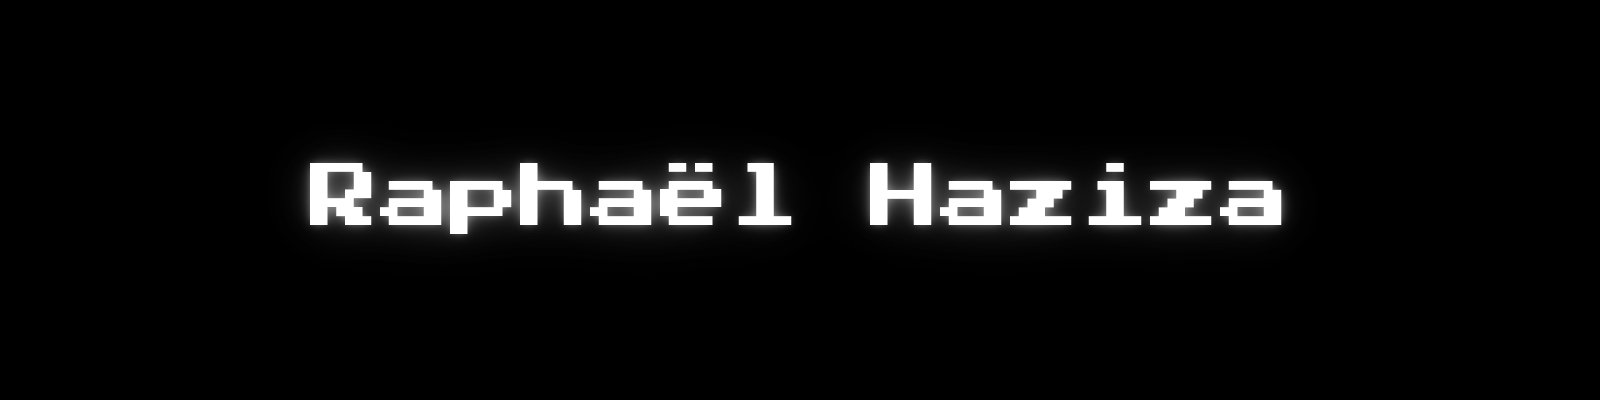
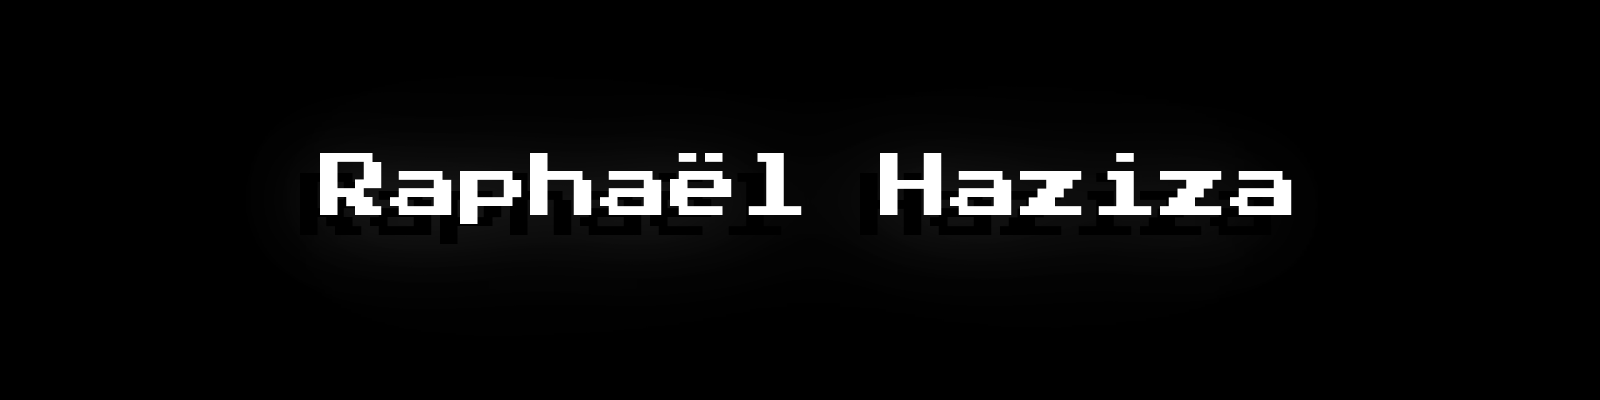
added a better visual configuration

Changed region(s): [[0.1875, 0.36, 0.5, 0.6], [0.5312, 0.39, 0.8125, 0.6]]

diff --git a/src/banner_generator/generator.py b/src/banner_generator/generator.py
@@ -11,22 +11,22 @@ class BannerGenerator:
 
         return blank_image
 
-    def write_text(self, image, color):
+    def write_text(self, image, color, offset=(0,0)):
         config_font = ImageFont.truetype(self.config.font_path, self.config.font_size)
         draw = ImageDraw.Draw(image)
 
         size_tuple = draw.textbbox((0,0), self.config.text, config_font)
 
-        centered_width = (self.config.width - (size_tuple[2] - size_tuple[0])) // 2 # (image_width - (right - left)) // 2 to center it on the horizontal
-        centered_height = (self.config.height - (size_tuple[3] - size_tuple[1])) // 2 # (image_height - (bottom - top)) // 2 to center it on the vertical
+        centered_width = (self.config.width - (size_tuple[2] - size_tuple[0])) // 2 + offset[0] # (image_width - (right - left)) // 2 to center it on the horizontal
+        centered_height = (self.config.height - (size_tuple[3] - size_tuple[1])) // 2 + offset[1] # (image_height - (bottom - top)) // 2 to center it on the vertical
 
         draw.text((centered_width, centered_height), self.config.text, color, config_font)
 
         return image
 
-    def apply_glow(self, image, opacity_glow, glow_size):
+    def apply_glow(self, image, opacity_glow, glow_size, offset=(0,0)):
         glow_image = self.create_image("RGBA", (0, 0, 0, 0))
-        glow_image = self.write_text(glow_image, (255, 255, 255, opacity_glow))
+        glow_image = self.write_text(glow_image, (255, 255, 255, opacity_glow), offset=offset)
         glow_filter = ImageFilter.GaussianBlur(glow_size) # glow effect using gaussian blur
         glow_image = glow_image.filter(glow_filter)
 
@@ -38,11 +38,12 @@ def main():
     generator = BannerGenerator(config)
 
     temp_image = generator.create_image("RGBA", (0, 0, 0, 255))
-    temp_image = generator.apply_glow(temp_image, 255, 5)
-    temp_image = generator.apply_glow(temp_image, 235, 10)
-    temp_image = generator.apply_glow(temp_image, 195, 25)
-    temp_image = generator.apply_glow(temp_image, 165, 35)
-    temp_image = generator.write_text(temp_image, (255, 255, 255))
+    temp_image = generator.apply_glow(temp_image, 255, 45, offset=(-10,5))
+    temp_image = generator.apply_glow(temp_image, 235, 60, offset=(-5,0))
+    temp_image = generator.apply_glow(temp_image, 195, 95, offset=(0,5))
+    temp_image = generator.apply_glow(temp_image, 165, 145, offset=(5,10))
+    temp_image = generator.write_text(temp_image, (0, 0, 0), offset=(-10, 10))
+    temp_image = generator.write_text(temp_image, (255, 255, 255), offset=(10, -10))
 
     current_date = datetime.now().strftime("%Y-%m-%d-%H-%M-%S")
     temp_image.save("output/" + current_date + "_" + str(config.width) + "x" + str(config.height) + "_" + config.text + "." + config.format)
